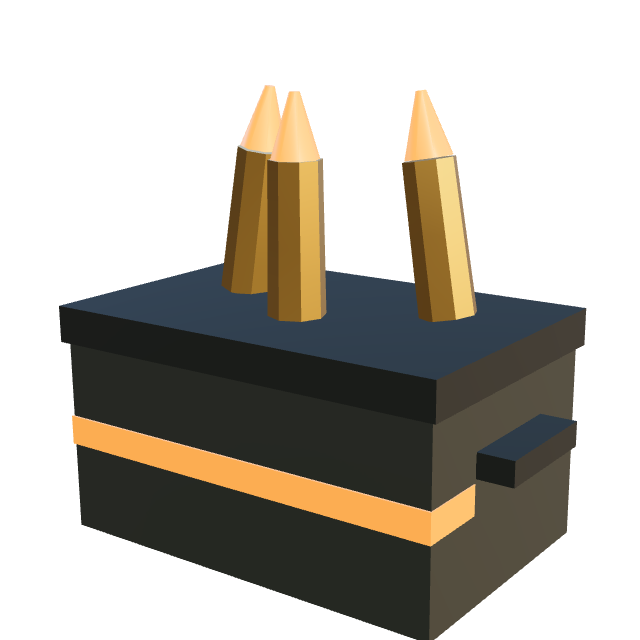
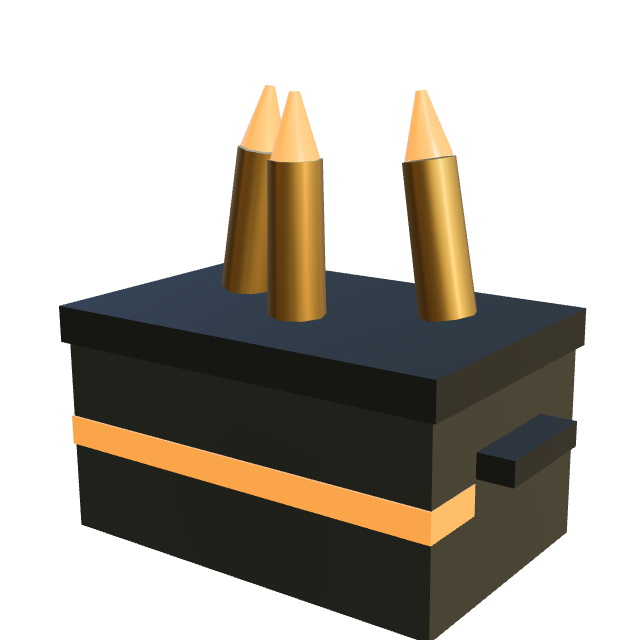
feat(art): premium tactical presentation for weapons + items
Reframes the catalogue so it reads as a real game, not a kids' toy — the fix is
art direction and presentation, not polygon count:

1. Muted the candy-neon gun accents to restrained tactical tones (field green,
   steel blue, muted amber); tier reads through finish, only the exotic keeps a
   real emissive. De-flat-shaded ItemMesh to PBR to match.
2. Moody cinematic bake lighting: hard warm key + cool rim carve the silhouette
   out of the dark, minimal fill — 'weapon', not 'product on a white shelf'.
   Re-baked all 13 catalogue PNGs.
3. New WeaponCrate frame (shared by the shop + profile inventory): a dark case
   with rarity corner brackets, a faint tactical grid, a stencilled designation
   (T3 · RIFLE) and a machined seam — the CS/Valorant skin-inspector read. The
   container does most of the 'real' work.

Owned gear in the profile now uses the identical crate, so it looks exactly
like what you bought.

Changed region(s): [[0.3438, 0.1875, 0.5312, 0.5], [0.625, 0.2188, 0.75, 0.5]]

diff --git a/apps/web/src/components/marketplace/WeaponCrate.tsx b/apps/web/src/components/marketplace/WeaponCrate.tsx
@@ -1,0 +1,108 @@
+'use client'
+
+import type { Item } from '@/types'
+import { ItemArt } from './ItemArt'
+import { gunIdFromItemId } from './GunIcons'
+import { GUN_CATALOG, type GunId } from '@/engine/combat/GunStats'
+
+// Short tactical designation stencilled onto the crate.
+const GUN_TYPE: Record<GunId, string> = {
+  sidearm: 'SIDEARM', smg: 'SMG', assault_rifle: 'RIFLE', marksman: 'DMR', legendary: 'PROTOTYPE',
+}
+
+/** The stencil designation for an item's crate, e.g. "T3 · RIFLE", "OPTIC · MOD". */
+export function crateLabel(item: Item): string {
+  const gid = gunIdFromItemId(item.id)
+  if (gid) return `T${GUN_CATALOG[gid].tier} · ${GUN_TYPE[gid]}`
+  const slot = (item.weapon_stats as Record<string, string> | null)?.slot
+  switch (item.category) {
+    case 'ammo':       return `${item.rarity.toUpperCase()} · AMMO`
+    case 'attachment': return `${(slot ?? 'MOD').toUpperCase()} · MOD`
+    case 'shield':     return 'TAC · SHIELD'
+    case 'booster':    return 'FIELD · BOOSTER'
+    default:           return item.rarity.toUpperCase()
+  }
+}
+
+/**
+ * The presentation frame that makes catalogue art read as a premium tactical
+ * asset instead of a toy on a shelf. A low-poly mesh in a dark weapon case — with
+ * corner brackets, a stencilled designation and a grounding shadow — reads
+ * "collectible weapon skin", the same trick CS/Valorant inspectors use. The
+ * container does more of the "real" work than the mesh does.
+ *
+ * Shared by the marketplace grid and the profile inventory so owned gear looks
+ * exactly like what you bought.
+ */
+
+function Bracket({ pos, color }: { pos: 'tl' | 'tr' | 'bl' | 'br'; color: string }) {
+  const edge: Record<typeof pos, string> = {
+    tl: 'top-1.5 left-1.5 border-t border-l',
+    tr: 'top-1.5 right-1.5 border-t border-r',
+    bl: 'bottom-1.5 left-1.5 border-b border-l',
+    br: 'bottom-1.5 right-1.5 border-b border-r',
+  }
+  return <span className={`absolute ${edge[pos]} w-3 h-3 pointer-events-none`} style={{ borderColor: color }} />
+}
+
+export function WeaponCrate({
+  item,
+  rarityColor,
+  label,
+}: {
+  item: Item
+  rarityColor: string
+  /** Short stencil designation, e.g. "T3 · RIFLE" or "EPIC · AMMO". */
+  label: string
+}) {
+  return (
+    <div
+      className="relative w-full rounded-lg overflow-hidden select-none"
+      style={{
+        background:
+          'radial-gradient(120% 90% at 50% 18%, #191c23 0%, #0d0f14 55%, #070709 100%)',
+        border: '1px solid rgba(255,255,255,0.06)',
+        boxShadow: 'inset 0 1px 0 rgba(255,255,255,0.04), inset 0 -24px 40px rgba(0,0,0,0.55)',
+      }}
+    >
+      {/* Faint tactical grid — texture, not decoration; barely there. */}
+      <div
+        className="absolute inset-0 pointer-events-none"
+        style={{
+          opacity: 0.05,
+          backgroundImage:
+            'linear-gradient(rgba(255,255,255,0.6) 1px, transparent 1px), linear-gradient(90deg, rgba(255,255,255,0.6) 1px, transparent 1px)',
+          backgroundSize: '13px 13px',
+        }}
+      />
+      {/* Rarity corner brackets — the "case" read. */}
+      <Bracket pos="tl" color={rarityColor} />
+      <Bracket pos="tr" color={rarityColor} />
+      <Bracket pos="bl" color={rarityColor} />
+      <Bracket pos="br" color={rarityColor} />
+
+      {/* Stencil designation, top-left. */}
+      <span
+        className="absolute top-2 left-3 z-10 font-mono text-[8px] font-bold uppercase"
+        style={{ letterSpacing: '0.22em', color: rarityColor, opacity: 0.9 }}
+      >
+        {label}
+      </span>
+
+      {/* The dramatically-lit asset, grounded by a soft shadow. */}
+      <div className="relative flex items-center justify-center px-3 pt-5 pb-4">
+        <ItemArt item={item} color={rarityColor} />
+      </div>
+
+      {/* Bottom edge strip in the rarity colour — a thin machined seam. */}
+      <div
+        className="absolute bottom-0 left-0 h-0.5 pointer-events-none"
+        style={{
+          width: '100%',
+          background: `linear-gradient(90deg, transparent, ${rarityColor}aa 50%, transparent)`,
+          opacity: 0.5,
+        }}
+      />
+    </div>
+  )
+}

diff --git a/apps/web/src/app/dev/bake-items/page.tsx b/apps/web/src/app/dev/bake-items/page.tsx
@@ -91,13 +91,16 @@ function BakeInner() {
         {/* HDRI reflections make the metal read as metal — the single biggest
             "real, not toy" lever. background stays off for the transparent bake. */}
         <Suspense fallback={null}>
-          <Environment files="/hdri/venice_sunset_1k.hdr" background={false} environmentIntensity={1.15} />
+          <Environment files="/hdri/venice_sunset_1k.hdr" background={false} environmentIntensity={0.7} />
         </Suspense>
-        {/* A soft key + cool rim ON TOP of the HDRI — kept low so reflections,
-            not raw diffuse, define the surface. */}
-        <ambientLight intensity={0.15} color={'#d6dce8'} />
-        <directionalLight position={[2.5, 3, 3.5]} intensity={1.4} color={'#fff2df'} />
-        <directionalLight position={[-3.5, 1.5, -2.5]} intensity={1.1} color={'#9fc3ff'} />
+        {/* Cinematic 3-point: a hard warm key top-right for the hero highlight, a
+            hard cool rim from behind-left to carve the silhouette out of the dark
+            case, and only a whisper of fill. Drama, not even product lighting —
+            this is what reads "weapon", not "toy on a shelf". */}
+        <ambientLight intensity={0.06} color={'#c2cbda'} />
+        <directionalLight position={[3, 3.5, 3]} intensity={2.6} color={'#ffe9cf'} />
+        <directionalLight position={[-3.5, 2, -3]} intensity={2.0} color={'#8fb4ff'} />
+        <directionalLight position={[0, -2.5, 1.5]} intensity={0.35} color={'#ffffff'} />
         <Subject name={asset} />
       </Canvas>
       {/* index for the bake script */}

diff --git a/apps/web/src/components/player-card/InventoryPanel.tsx b/apps/web/src/components/player-card/InventoryPanel.tsx
@@ -7,7 +7,7 @@ const API = process.env.NEXT_PUBLIC_API_URL ?? 'http://localhost:8080'
 import { ITEM_RARITY_COLORS } from '@/lib/constants'
 import { usePlayerStore } from '@/stores/usePlayerStore'
 import { useResale } from '@/hooks/useResale'
-import { ItemArt } from '@/components/marketplace/ItemArt'
+import { WeaponCrate, crateLabel } from '@/components/marketplace/WeaponCrate'
 
 interface Props {
   inventory: InventoryItem[]
@@ -138,14 +138,9 @@ export default function InventoryPanel({ inventory, walletAddress }: Props) {
                   </span>
                 )}
               </div>
-              {/* Same baked in-game asset the shop shows, so owned items look
+              {/* Same weapon-crate framing as the shop, so owned gear looks
                   exactly like what you bought. */}
-              <div
-                className="w-full rounded-lg flex items-center justify-center py-2"
-                style={{ background: `radial-gradient(ellipse at 50% 45%, ${color}18 0%, ${color}05 60%, transparent 100%)` }}
-              >
-                <ItemArt item={item} color={color} size="modal" />
-              </div>
+              <WeaponCrate item={item} rarityColor={color} label={crateLabel(item)} />
               <p className="text-sm font-bold text-white leading-tight">{item.name}</p>
               <p className="text-xs text-slate-500">
                 +{item.stat_boost} <span className="font-bold" style={{ color }}>{statLbl}</span>

diff --git a/apps/web/src/components/marketplace/MarketplaceItem.tsx b/apps/web/src/components/marketplace/MarketplaceItem.tsx
@@ -11,6 +11,7 @@ import { usePlayerStore } from '@/stores/usePlayerStore'
 import { useGBalance } from '@/hooks/useGBalance'
 import { gunIdFromItemId } from './GunIcons'
 import { ItemArt } from './ItemArt'
+import { WeaponCrate, crateLabel } from './WeaponCrate'
 import { gunDps, GUN_CATALOG, type GunStats } from '@/engine/combat/GunStats'
 
 const SLOT_LABEL: Record<string, string> = {
@@ -125,16 +126,8 @@ export default function MarketplaceItem({ item, walletAddress }: Props) {
           )}
         </div>
 
-        {/* Item visual: the real in-game asset */}
-        <div
-          className="w-full rounded-xl flex items-center justify-center border py-3 px-2"
-          style={{
-            background: `radial-gradient(ellipse at 50% 40%, ${rarityColor}1c 0%, ${rarityColor}06 60%, transparent 100%)`,
-            borderColor: `${rarityColor}18`,
-          }}
-        >
-          <ItemArt item={item} color={rarityColor} />
-        </div>
+        {/* Item visual: the real in-game asset, framed as a tactical weapon crate */}
+        <WeaponCrate item={item} rarityColor={rarityColor} label={crateLabel(item)} />
 
         {/* Name + desc */}
         <div>

diff --git a/apps/web/src/engine/scene/GunMesh.ts b/apps/web/src/engine/scene/GunMesh.ts
@@ -35,12 +35,16 @@ interface GunKit {
   group: THREE.Group;
 }
 
+// Restrained, tactical accents — desaturated tones, low glow. Candy-bright neon
+// on grey plastic is the #1 "kids' toy" tell; a real weapon shows its tier
+// through finish and a single disciplined accent, not a glowing stripe. Only the
+// exotic prototype keeps a real emissive (it's an energy weapon).
 const ACCENTS: Record<GunId, { color: number; glow: number }> = {
-  sidearm:       { color: 0x9aa0a6, glow: 0.15 },
-  smg:           { color: 0xffaa33, glow: 0.3 },
-  assault_rifle: { color: 0x33cc66, glow: 0.35 },
-  marksman:      { color: 0x55aaff, glow: 0.4 },
-  legendary:     { color: 0xb070ff, glow: 1.5 },
+  sidearm:       { color: 0x8b9096, glow: 0.0 },  // plain steel
+  smg:           { color: 0xa8763f, glow: 0.06 }, // muted amber
+  assault_rifle: { color: 0x5c7f63, glow: 0.06 }, // field green
+  marksman:      { color: 0x6d8aa8, glow: 0.08 }, // steel blue
+  legendary:     { color: 0x8f6fc4, glow: 0.75 }, // exotic violet — still glows
 };
 
 /** Molded-polymer furniture: matte with a faint clearcoat sheen, not shiny. */

diff --git a/apps/web/src/engine/scene/ItemMesh.ts b/apps/web/src/engine/scene/ItemMesh.ts
@@ -26,11 +26,13 @@ const POLYMER_DARK = 0x2c313a;
 const BRASS = 0xc9a24a;
 const CRATE = 0x3a4034;
 
+// Smooth-shaded PBR (no flat-shading) with a strong envMapIntensity so steel and
+// brass catch the HDRI and read as real material, matching the weapon art.
 function mat(color: number, opts: Partial<THREE.MeshStandardMaterialParameters> = {}) {
-  return new THREE.MeshStandardMaterial({ color, metalness: 0.5, roughness: 0.45, flatShading: true, ...opts });
+  return new THREE.MeshStandardMaterial({ color, metalness: 0.72, roughness: 0.4, envMapIntensity: 1.35, ...opts });
 }
 function glowMat(color: number, intensity = 1) {
-  return new THREE.MeshStandardMaterial({ color, emissive: color, emissiveIntensity: intensity, metalness: 0.2, roughness: 0.35 });
+  return new THREE.MeshStandardMaterial({ color, emissive: color, emissiveIntensity: intensity, metalness: 0.2, roughness: 0.3, envMapIntensity: 0.6 });
 }
 
 function box(g: THREE.Group, m: THREE.Material, w: number, h: number, d: number,
